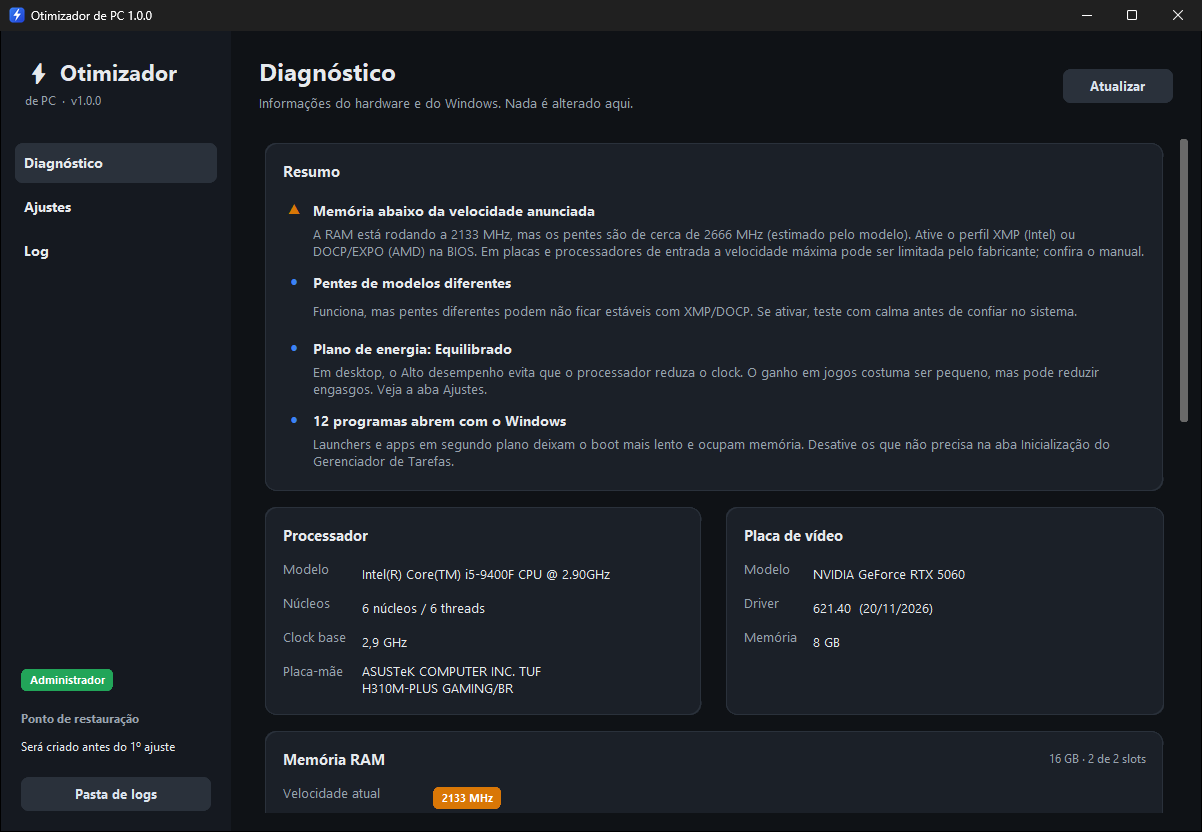
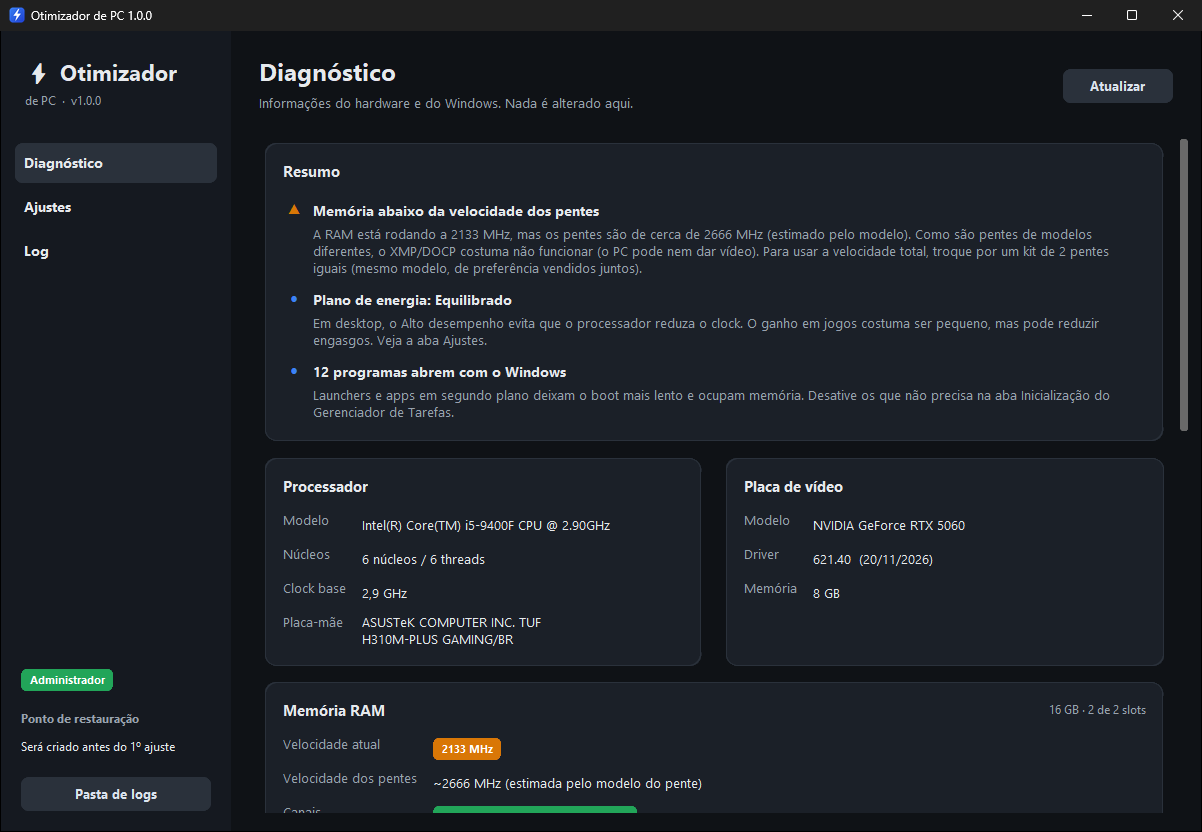
Memória lenta com pentes diferentes: recomenda kit de 2 pentes iguais
Com pentes de modelos diferentes o XMP/DOCP costuma não funcionar (o PC pode
nem dar vídeo). Nesse caso o diagnóstico mostra um único aviso recomendando a
troca por 2 pentes iguais, em vez de sugerir ativar o XMP. Com pentes iguais,
continua a orientação de ativar o XMP/DOCP.

diff --git a/otimizador/diagnostico/__init__.py b/otimizador/diagnostico/__init__.py
@@ -84,9 +84,19 @@ def gerar_achados(d: Diagnostico, hoje: date) -> list[Achado]:
     achados: list[Achado] = []
     mem = d.memoria
 
-    if mem.abaixo_do_anunciado:
+    if mem.abaixo_do_anunciado and mem.modelos_misturados:
+        # Com pentes diferentes o XMP/DOCP costuma falhar (às vezes o PC nem dá vídeo),
+        # então a recomendação útil é trocar os pentes, não mexer na BIOS.
         achados.append(Achado(
-            "aviso", "Memória abaixo da velocidade anunciada",
+            "aviso", "Memória abaixo da velocidade dos pentes",
+            f"A RAM está rodando a {mem.mhz_atual} MHz, mas os pentes são de cerca de "
+            f"{mem.mhz_anunciado} MHz (estimado pelo modelo). Como são pentes de modelos diferentes, "
+            "o XMP/DOCP costuma não funcionar (o PC pode nem dar vídeo). Para usar a velocidade "
+            "total, troque por um kit de 2 pentes iguais (mesmo modelo, de preferência vendidos juntos).",
+        ))
+    elif mem.abaixo_do_anunciado:
+        achados.append(Achado(
+            "aviso", "Memória abaixo da velocidade dos pentes",
             f"A RAM está rodando a {mem.mhz_atual} MHz, mas os pentes são de cerca de "
             f"{mem.mhz_anunciado} MHz (estimado pelo modelo). Ative o perfil XMP (Intel) ou "
             "DOCP/EXPO (AMD) na BIOS. Em placas e processadores de entrada a velocidade máxima "
@@ -98,7 +108,7 @@ def gerar_achados(d: Diagnostico, hoje: date) -> list[Achado]:
             "Dois pentes iguais em canais diferentes (dual channel) costumam aumentar o FPS mínimo "
             "em jogos. Confira no manual da placa-mãe quais slots usar (geralmente A2 e B2).",
         ))
-    if mem.modelos_misturados:
+    if mem.modelos_misturados and not mem.abaixo_do_anunciado:
         achados.append(Achado(
             "info", "Pentes de modelos diferentes",
             "Funciona, mas pentes diferentes podem não ficar estáveis com XMP/DOCP. "

diff --git a/tests/test_diagnostico.py b/tests/test_diagnostico.py
@@ -31,10 +31,26 @@ def test_diagnostico_completo(cim_real):
     assert diag.tem_ssd
     assert diag.plano_ativo.nome == "Equilibrado"
     titulos = _titulos(diag)
-    assert "Memória abaixo da velocidade anunciada" in titulos
-    assert "Pentes de modelos diferentes" in titulos
     assert "Plano de energia: Equilibrado" in titulos
     assert not any("espaço" in t for t in titulos)
+
+
+def test_memoria_lenta_com_pentes_diferentes_recomenda_kit_igual(cim_real):
+    diag = montar_diagnostico(_brutos(cim_real), hoje=HOJE)
+    (achado,) = [a for a in diag.achados if a.titulo == "Memória abaixo da velocidade dos pentes"]
+    assert "2 pentes iguais" in achado.detalhe
+    assert "Ative o perfil XMP" not in achado.detalhe
+    # O aviso de pentes diferentes já está embutido; não deve aparecer duplicado.
+    assert "Pentes de modelos diferentes" not in _titulos(diag)
+
+
+def test_memoria_lenta_com_pentes_iguais_recomenda_xmp(cim_real):
+    cim = copy.deepcopy(cim_real)
+    for pente in cim["ram"]:
+        pente["Manufacturer"], pente["PartNumber"] = "G-Skill", "F4-2666C15-8GVR"
+    diag = montar_diagnostico(_brutos(cim), hoje=HOJE)
+    (achado,) = [a for a in diag.achados if a.titulo == "Memória abaixo da velocidade dos pentes"]
+    assert "Ative o perfil XMP" in achado.detalhe
 
 
 def test_pouco_espaco_e_trim_desligado(cim_real):
